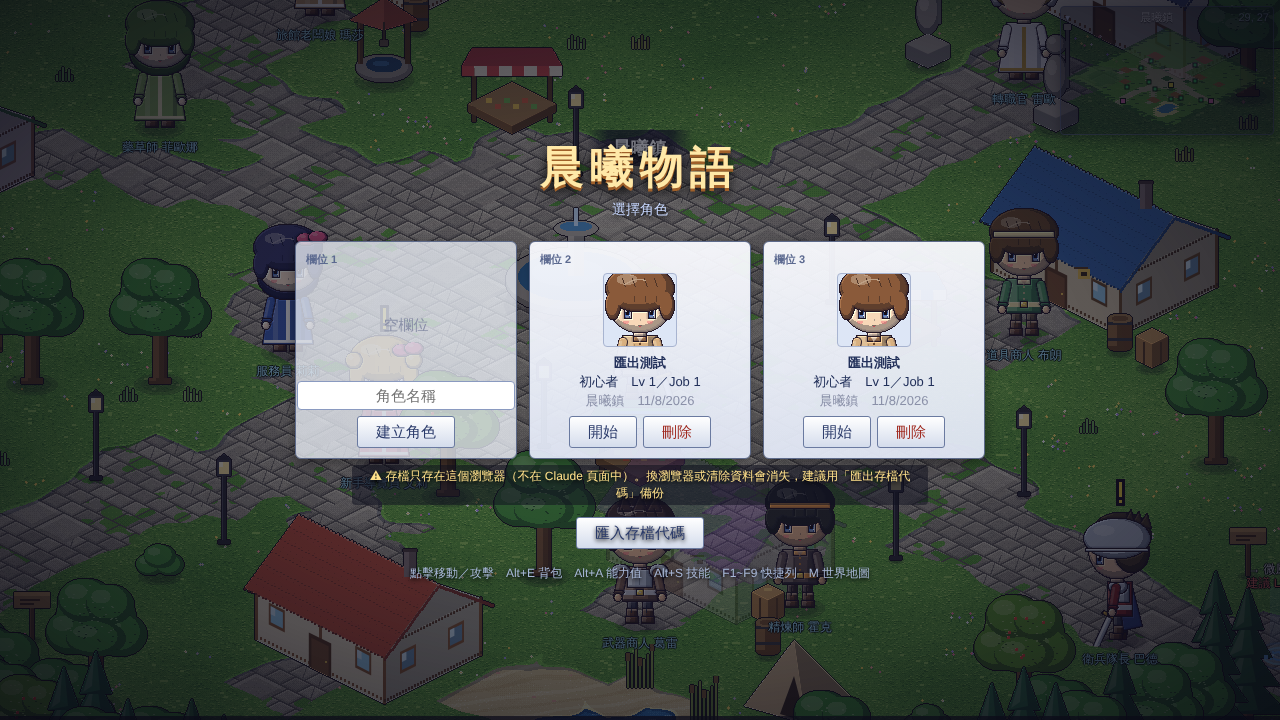
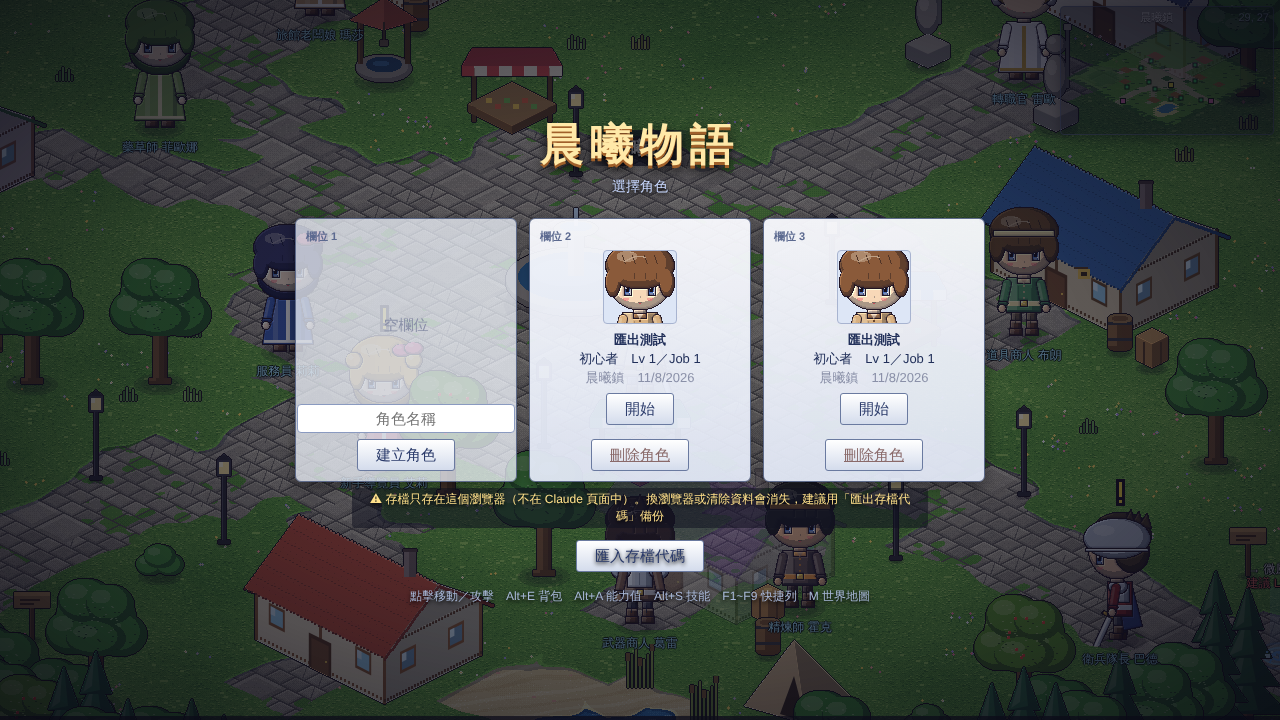
存檔：刪除改為可復原、危險確認防誤觸、讀取中不換版面
Claude-Session: https://claude.ai/code/session_01T2m48zuVeiYqCrQn65uTXz

Changed region(s): [[0.2188, 0.1528, 0.8125, 0.8556], [0.7812, 0.3667, 0.8125, 0.4278]]

diff --git a/ro-mmorpg/src/systems/Save.ts b/ro-mmorpg/src/systems/Save.ts
@@ -3,7 +3,7 @@ import { DB } from '../data';
 
 /** 舊版只有一個存檔（rom.save），現在分成 3 個角色欄位 rom.save.s1~s3（各自有 .bak 備份） */
 export const LEGACY_KEY = 'rom.save', LEGACY_BAK = 'rom.save.bak', SLOTS = 3;
-const keyOf = (n: number) => `rom.save.s${n}`, bakOf = (n: number) => `rom.save.s${n}.bak`;
+const keyOf = (n: number) => `rom.save.s${n}`, bakOf = (n: number) => `rom.save.s${n}.bak`, trashOf = (n: number) => `rom.trash.s${n}`;
 export interface SlotInfo { slot: number; name: string; job: string; baseLv: number; jobLv: number; map: string; t: number }
 /** 目前存檔版本；改存檔格式時 +1 並在 migrations 補一個升級函式 */
 export const SAVE_V = 3;
@@ -60,7 +60,7 @@ export class Save {
   loadedFrom: 'main' | 'backup' | 'new' = 'new';
   slot = 1;
   cloud: { state: CloudState; uid: string; db: any; err: string; syncedAt: number } = { state: 'pending', uid: '', db: null, err: '', syncedAt: 0 };
-  private pushQ = new Map<number, string | null>(); private pushT = -1; private pushing = false;
+  private pushQ = new Map<number, string | { trashed: string | null }>(); private pushT = -1; private pushing = false;
   onCloudChange: (() => void) | null = null;
   get localOk() { return lsOk; }
   constructor(private g: Game) {
@@ -100,7 +100,11 @@ export class Save {
       if (snap.exists) {
         const c = snap.data() as { raw?: string; t?: number; deleted?: boolean } | undefined;
         const ct = c?.t || 0;
-        if (c?.deleted) { if (lt <= ct) { store.del(keyOf(n)); store.del(bakOf(n)); } else this.queuePush(n, local); continue; }
+        if (c?.deleted) { // 已刪除：雲端保留原內容，可以在標題畫面「復原」
+          if (lt <= ct) { store.del(keyOf(n)); store.del(bakOf(n)); if (c.raw && unpack(c.raw)) store.set(trashOf(n), c.raw); }
+          else { if (local) this.queuePush(n, local); }
+          continue;
+        }
         if (c?.raw && unpack(c.raw) && ct > lt) { if (local && unpack(local)) store.set(bakOf(n), local); store.set(keyOf(n), c.raw); }
         else if (lt > ct && local && unpack(local)) this.queuePush(n, local);
       } else if (local && unpack(local)) this.queuePush(n, local);
@@ -108,7 +112,7 @@ export class Save {
     this.cloud.syncedAt = Date.now();
     await this.flush();
   }
-  private queuePush(n: number, raw: string | null, now = false) { this.pushQ.set(n, raw); this.pushT = now ? 0.01 : Math.min(this.pushT > 0 ? this.pushT : 99, 4); }
+  private queuePush(n: number, raw: string | { trashed: string | null }, now = false) { this.pushQ.set(n, raw); this.pushT = now ? 0.01 : Math.min(this.pushT > 0 ? this.pushT : 99, 4); }
   /** 立刻把排隊中的存檔寫到雲端（一次一個，等上一個寫完） */
   async flush() {
     if (this.cloud.state === 'off' || !this.cloud.db || this.pushing) return;
@@ -116,7 +120,7 @@ export class Save {
     try {
       for (const [n, raw] of [...this.pushQ]) {
         this.pushQ.delete(n);
-        if (raw === null) await this.ref(n).set({ deleted: true, t: Date.now() });
+        if (typeof raw !== 'string') { const d = raw.trashed ? unpack(raw.trashed) : null; await this.ref(n).set({ deleted: true, t: Date.now(), ...(raw.trashed ? { raw: raw.trashed, name: d?.ch?.name || '', job: d?.ch?.job || '', lv: d?.ch?.baseLv || 0 } : {}) }); }
         else { const d = unpack(raw); await this.ref(n).set({ raw, t: rawTime(raw) || Date.now(), name: d?.ch?.name || '', job: d?.ch?.job || '', lv: d?.ch?.baseLv || 0 }); }
       }
       this.cloud.syncedAt = Date.now(); if (this.cloud.state !== 'on') this.setCloud('on', '');
@@ -139,7 +143,30 @@ export class Save {
     }
     return out;
   }
-  deleteSlot(n: number) { store.del(keyOf(n)); store.del(bakOf(n)); if (this.cloud.state !== 'off') { this.queuePush(n, null, true); void this.flush(); } }
+  /** 刪除＝移到「垃圾桶」：本機與雲端都保留原內容，標題畫面可以復原；該欄位建立新角色時才會真正蓋掉 */
+  deleteSlot(n: number) {
+    const raw = store.get(keyOf(n)), old = raw && unpack(raw) ? raw : (() => { const b = store.get(bakOf(n)); return b && unpack(b) ? b : null; })();
+    if (old) store.set(trashOf(n), old);
+    store.del(keyOf(n)); store.del(bakOf(n));
+    if (this.cloud.state !== 'off') { this.queuePush(n, { trashed: old }, true); void this.flush(); }
+  }
+  /** 每個欄位被刪除、可以復原的角色 */
+  trashList(): (SlotInfo | null)[] {
+    const out: (SlotInfo | null)[] = [];
+    for (let n = 1; n <= SLOTS; n++) {
+      const raw = store.get(trashOf(n)); const d = raw && !store.get(keyOf(n)) ? unpack(raw) : null;
+      out.push(d ? { slot: n, name: d.ch.name, job: d.ch.job, baseLv: d.ch.baseLv, jobLv: d.ch.jobLv, map: d.map, t: rawTime(raw) } : null);
+    }
+    return out;
+  }
+  restoreSlot(n: number): boolean {
+    const raw = store.get(trashOf(n)); if (!raw || !unpack(raw) || store.get(keyOf(n))) return false;
+    store.set(keyOf(n), raw); store.del(trashOf(n));
+    if (this.cloud.state !== 'off') { this.queuePush(n, raw, true); void this.flush(); }
+    return true;
+  }
+  /** 在欄位建立新角色：清掉這個欄位的垃圾桶 */
+  clearTrash(n: number) { store.del(trashOf(n)); }
   /** 匯出／匯入：把存檔變成一串文字，可以貼到別的裝置 */
   exportCode(n: number): string | null { const raw = store.get(keyOf(n)); return raw && unpack(raw) ? 'ROM1:' + btoa(unescape(encodeURIComponent(raw))) : null; }
   importCode(n: number, code: string): string | null {

diff --git a/ro-mmorpg/tools/act/cloudsave.js b/ro-mmorpg/tools/act/cloudsave.js
@@ -24,12 +24,25 @@ await page.evaluate(() => { localStorage.setItem('rom.save.s1', sessionStorage.g
 await page.reload(); await ready();
 await page.click('.slot:nth-child(1) .btn'); await page.waitForFunction(() => !window.__game.inTitle);
 console.log('5 newer wins (expect 22222)', await page.evaluate(() => window.__game.player.ch.zeny));
-// 刪除會同步到雲端（在標題畫面刪除，和實際操作一致）
+// 刪除＝移到垃圾桶：雲端保留內容、可以復原；連點「刪除」不會直接通過
 await page.reload(); await ready();
-await page.evaluate(async () => { const G = window.__game; G.save.deleteSlot(1); await G.save.flush(); });
-console.log('6 after delete', await page.evaluate(() => JSON.stringify(JSON.parse(sessionStorage.getItem('cloud:data/users/u1/save_s1') || 'null'))));
+await page.evaluate(() => { const G = window.__game; });
+await page.click('.slot:nth-child(1) .slot-del');
+await page.evaluate(() => document.querySelector('.ask-box .btn.warn').click());   // 立刻點「刪除」（1.2 秒內）應該無效
+console.log('6a 立刻點確定是否被擋', await page.evaluate(() => !!document.querySelector('.ask-wrap') && window.__game.save.list()[0] !== null));
+await sleep(1400); await page.click('.ask-box .btn.warn'); await sleep(300);
+console.log('6b after delete', await page.evaluate(() => JSON.stringify({ list: window.__game.save.list().map((s) => s && s.name), trash: window.__game.save.trashList().map((s) => s && s.name), cloud: (() => { const v = JSON.parse(sessionStorage.getItem('cloud:data/users/u1/save_s1') || 'null'); return v && { deleted: v.deleted, keepsRaw: !!v.raw, name: v.name }; })() })));
 await page.reload(); await ready();
-console.log('7 list after delete', await page.evaluate(() => JSON.stringify(window.__game.save.list())));
+console.log('7 after reload: trash still there', await page.evaluate(() => JSON.stringify({ list: window.__game.save.list().map((s) => s && s.name), trash: window.__game.save.trashList().map((s) => s && s.name) })));
+await page.click('.slot:nth-child(1) .slot-trash .btn'); await sleep(300);
+console.log('7b restored', await page.evaluate(() => JSON.stringify({ list: window.__game.save.list().map((s) => s && s.name + s.baseLv), cloud: JSON.parse(sessionStorage.getItem('cloud:data/users/u1/save_s1')).deleted })));
+// 換一台裝置（本機清空）：雲端的已刪除記錄也要能復原
+await page.click('.slot:nth-child(1) .slot-del'); await sleep(1400); await page.click('.ask-box .btn.warn'); await sleep(300);
+await page.evaluate(() => localStorage.clear()); await page.reload(); await ready();
+console.log('7c other device sees trash', await page.evaluate(() => JSON.stringify(window.__game.save.trashList().map((s) => s && s.name))));
+await page.click('.slot:nth-child(1) .slot-trash .btn'); await sleep(300);
+console.log('7d restored on other device', await page.evaluate(() => JSON.stringify(window.__game.save.list().map((s) => s && s.name))));
+await page.screenshot({ path: 'screenshots/存檔_復原.png' });
 // 匯出匯入
 await page.fill('#slot-name-2', '匯出測試'); await page.click('.slot:nth-child(2) .btn'); await page.waitForFunction(() => !window.__game.inTitle);
 const code = await page.evaluate(async () => { const G = window.__game; G.player.ch.zeny = 4242; G.save.save(true); return G.save.exportCode(2); });

diff --git a/ro-mmorpg/src/ui/UI.ts b/ro-mmorpg/src/ui/UI.ts
@@ -166,24 +166,30 @@ export class UI {
     const list = h('div', 'slots');
     const go = (cont: boolean, slot: number, name = '') => { t.remove(); this.audio(); this.g.begin(cont, name || '冒險者', slot); };
     const mapName = (id: string) => DB.map[id]?.name || '';
+    const trash = this.g.save.trashList();
     this.g.save.list().forEach((info, i) => {
       const slot = i + 1;
       const card = h('div', 'slot' + (info ? '' : ' empty'));
       card.appendChild(h('div', 'slot-n', `欄位 ${slot}`));
-      if (info) {
+      if (pending) { // 還在連線雲端：先不顯示按鈕，等讀完再一次畫出正確的畫面（避免按鈕在你手指下突然換位置）
+        card.classList.add('loading'); card.appendChild(h('div', 'slot-info dim', '讀取存檔中…'));
+      } else if (info) {
         const face = h('canvas', 'slot-face') as HTMLCanvasElement; face.width = 72; face.height = 72;
         const look = { ...DB.job[info.job]?.look };
         import('../render/SpriteFactory').then(({ humanSheet }) => { const sh = humanSheet(look); const c = face.getContext('2d')!; c.imageSmoothingEnabled = false; c.drawImage(sh.c, 60, 66, 72, 72, 0, 0, 72, 72); });
         const tx = h('div', 'slot-info');
         tx.innerHTML = `<b>${info.name}</b><br>${DB.job[info.job]?.name || ''}　Lv ${info.baseLv}／Job ${info.jobLv}<br><span class="dim">${mapName(info.map)}${info.t ? '　' + new Date(info.t).toLocaleDateString() : ''}</span>`;
         const bs = h('div', 'slot-btns');
-        bs.append(btn(pending ? '連線中…' : '開始', () => { if (!pending) go(true, slot); }, pending ? 'dis' : ''), btn('刪除', () => ask(`確定要刪除「${info.name}」嗎？刪除後無法復原。`, () => { this.g.save.deleteSlot(slot); t.remove(); this.showTitle(); }), 'warn'));
-        card.append(face, tx, bs);
+        bs.append(btn('開始', () => go(true, slot)));
+        const del = btn('刪除角色', () => ask(`要刪除「${info.name}」（${DB.job[info.job]?.name || ''} Lv ${info.baseLv}）嗎？刪除後可以在這個欄位「復原」，直到你在這個欄位建立新角色。`, () => { this.g.save.deleteSlot(slot); t.remove(); this.showTitle(); }, { danger: true, yes: '刪除' }), 'slot-del');
+        card.append(face, tx, bs, del);
       } else {
         const name = h('input') as HTMLInputElement; name.placeholder = '角色名稱'; name.maxLength = 10; name.id = 'slot-name-' + slot;
         name.addEventListener('keydown', (e) => { e.stopPropagation(); if (e.key === 'Enter') go(false, slot, name.value.trim()); });
-        const bs = h('div', 'slot-btns'); bs.append(btn('建立角色', () => { if (!pending) go(false, slot, name.value.trim()); }, pending ? 'dis' : ''));
+        const bs = h('div', 'slot-btns'); bs.append(btn('建立角色', () => go(false, slot, name.value.trim())));
         card.append(h('div', 'slot-info dim', '空欄位'), name, bs);
+        const tr = trash[i];
+        if (tr) { const rb = h('div', 'slot-trash'); rb.append(h('span', 'dim', `已刪除：${tr.name}（${DB.job[tr.job]?.name || ''} Lv ${tr.baseLv}）`), btn('復原', () => { if (this.g.save.restoreSlot(slot)) { t.remove(); this.showTitle(); } }, 'sm')); card.appendChild(rb); }
       }
       list.appendChild(card);
     });

diff --git a/ro-mmorpg/src/ui/Window.ts b/ro-mmorpg/src/ui/Window.ts
@@ -65,11 +65,16 @@ export function btn(label: string, fn: () => void, cls = ''): HTMLSpanElement {
   const b = h('span', 'btn ' + cls, label); b.addEventListener('click', (e) => { e.stopPropagation(); fn(); }); return b;
 }
 /** 頁內確認框（不用瀏覽器的 confirm()，有些嵌入環境會直接回傳 false） */
-export function ask(msg: string, onYes: () => void) {
+export function ask(msg: string, onYes: () => void, opt: { yes?: string; danger?: boolean } = {}) {
   const wrap = h('div', 'ask-wrap'); const box = h('div', 'win ask-box');
-  box.append(h('div', 'win-title', '確認'), h('div', 'win-body ask-msg', msg));
+  box.append(h('div', 'win-title', opt.danger ? '請再確認一次' : '確認'), h('div', 'win-body ask-msg', msg));
   const foot = h('div', 'win-foot');
-  foot.append(btn('確定', () => { wrap.remove(); onYes(); }), btn('取消', () => wrap.remove()));
+  const born = performance.now();
+  // 危險操作：取消在前、「確定」要等 1.2 秒才有效（避免連點、點錯位置時直接通過）
+  const yes = btn(opt.yes || '確定', () => { if (opt.danger && performance.now() - born < 1200) return; wrap.remove(); onYes(); }, opt.danger ? 'warn' : '');
+  if (opt.danger) { yes.classList.add('dis'); setTimeout(() => yes.classList.remove('dis'), 1200); }
+  const no = btn('取消', () => wrap.remove());
+  if (opt.danger) foot.append(no, yes); else foot.append(yes, no);
   box.appendChild(foot); wrap.appendChild(box);
   (document.getElementById('ui') || document.body).appendChild(wrap);
 }

diff --git a/ro-mmorpg/src/ui/ui.css b/ro-mmorpg/src/ui/ui.css
@@ -395,3 +395,8 @@ canvas#game { display: block; image-rendering: pixelated; image-rendering: crisp
 .code-msg { min-height: 16px; font-size: 12px; color: #2a7a3a; }
 #title .btns .btn.dis { opacity: .5; }
 .seg { display: inline-flex; gap: 2px; } .seg .btn.on { background: linear-gradient(#8ab4f0, #4c70b0); color: #fff; border-color: #2c4a8a; }
+.slot-del { margin-top: 8px; font-size: 11px; color: #8a6a6a; cursor: pointer; text-decoration: underline; padding: 6px 10px; }
+.slot-trash { margin-top: 4px; padding: 5px 6px; font-size: 11px; display: flex; gap: 6px; align-items: center; justify-content: center; flex-wrap: wrap; border-top: 1px dashed #b8c0d8; width: 100%; }
+.slot.loading { opacity: .7; }
+.ask-box .win-foot .btn.warn { color: #a02a20; font-weight: bold; }
+.ask-box .win-foot .btn.dis { opacity: .35; }

diff --git a/ro-mmorpg/src/core/Game.ts b/ro-mmorpg/src/core/Game.ts
@@ -146,6 +146,7 @@ export class Game {
         this.msg(`歡迎回來，${this.player.ch.name}！${this.save.loadedFrom === 'backup' ? '（主存檔損壞，已從備份還原）' : ''}`, 'sys');
       }
     } else {
+      this.save.clearTrash(slot);
       this.player.ch.name = name || '冒險者';
       this.newGameItems();
       this.spawner.init();

diff --git a/ro-mmorpg/PROGRESS.md b/ro-mmorpg/PROGRESS.md
@@ -306,3 +306,10 @@
 - 另外加了繪製幀率上限：90／120Hz 螢幕的手機不會畫到 120 幀。
 - 驗證：手機直向／橫向介面測試通過；移動流暢度（手機 844×390）0 反轉、0 大跳；在省電畫質下點 NPC 對話座標正確。
 - 截圖：`screenshots/畫質_標準.png`、`screenshots/畫質_省電.png`
+
+## 存檔誤刪：垃圾桶復原與防誤觸
+- 起因：使用者回報「重開存檔不見」。查雲端資料：存檔寫入正常，但欄位 1 被標記為 `deleted`（透過標題畫面「刪除」），舊內容已被覆寫、無法救回。
+- 刪除改為軟刪除：內容移到本機垃圾桶（`rom.trash.sN`），雲端保留 `raw`；空欄位顯示「已刪除：名稱」與「復原」，直到在該欄位建立新角色才清除。
+- 刪除確認改為危險模式：取消在前、「刪除」1.2 秒內無效；刪除按鈕改成卡片旁的小字連結。
+- 標題畫面讀取雲端時先顯示「讀取存檔中…」占位，避免版面跳動造成誤點。
+- 測試：`tools/act/cloudsave.js`（刪除→垃圾桶→復原、同裝置／跨裝置）、s8、slots。
